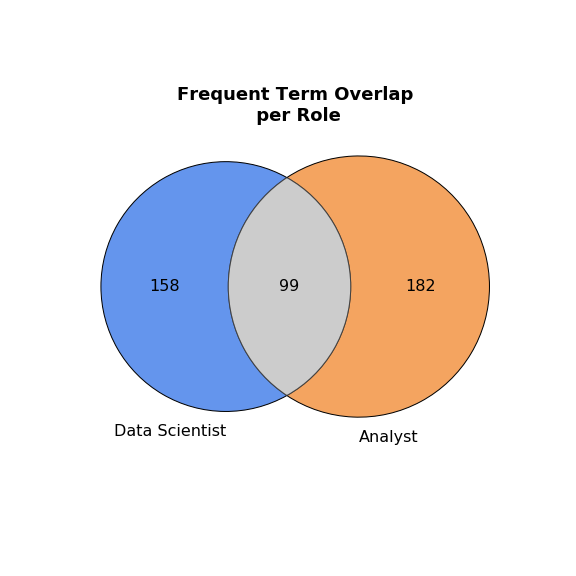
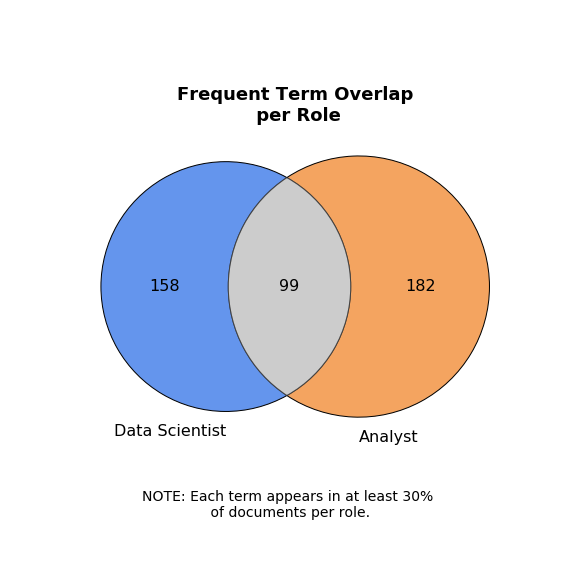
Add a note at the bottomof the diagram

Changed region(s): [[0.25, 0.8438, 0.75, 0.9062]]

diff --git a/End to End Model Creation to Feature Evaluation.py b/End to End Model Creation to Feature Evaluation.py
@@ -407,7 +407,14 @@ sec = len(token_df[token_df['secondary_wf'] >= freq])
 
 # Plot Venn Diagram for frequent terms
 plt.figure(figsize=(8,8))
-plt.title('Frequent Term Overlap\n per Role', size = 18, fontweight='bold')
+
+title_string = "Frequent Term Overlap\n per Role"
+subtitle_string = ("NOTE: Each term appears in at least {0:.0f}%\n of documents per role.").format(freq*100)
+
+plt.title(title_string,fontsize=18, fontweight='bold' )
+plt.suptitle(subtitle_string, y= .15, fontsize=14)
+
+
 v = venn2(subsets = (prim, sec, overlap), set_labels = (titleA, titleB))
 v.get_patch_by_id('A').set_color('cornflowerblue')
 v.get_patch_by_id('A').set_alpha(1.0)
@@ -424,8 +431,7 @@ for text in v.set_labels:
 
 for text in v.subset_labels:
     text.set_fontsize(16)
-
-#plt.show()
+    
 plt.savefig(github_image_folder + 'Common Job Terms.png')
 
 
